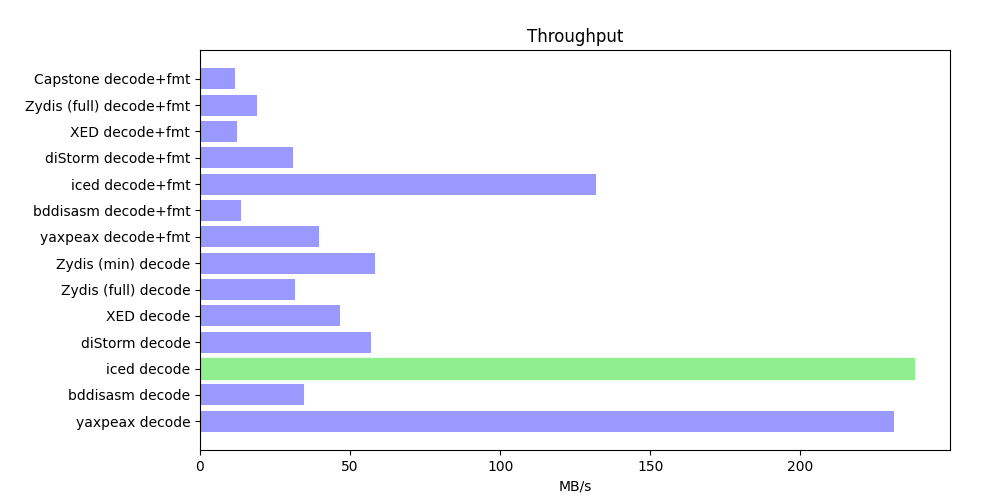
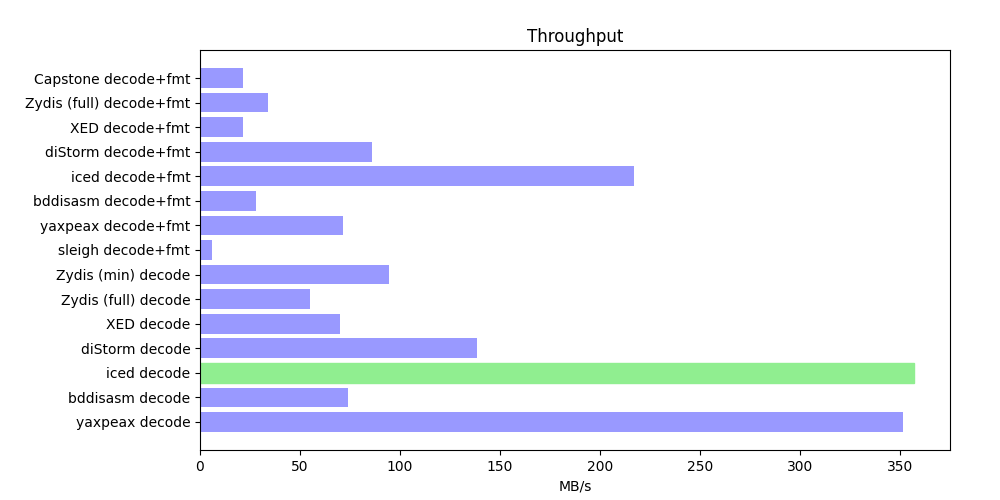
Update results in README

diff --git a/README.md b/README.md
@@ -5,11 +5,8 @@ This repository holds benchmarking code for various x86/x86-64 disassembler libr
 
 ## Results
 
-![Bench AMD](bench-ixi.png)
-Ubuntu 20.04, AMD Ryzen 9 3950X
-
 ![Bench Intel](bench-ath.png)
-macOS 11.4, Intel i7 8700k
+NixOS, Linux 6.0.10, GCC 11, rustc 1.67.0-nightly, i7-12700K
 
 ## Candidates
 
